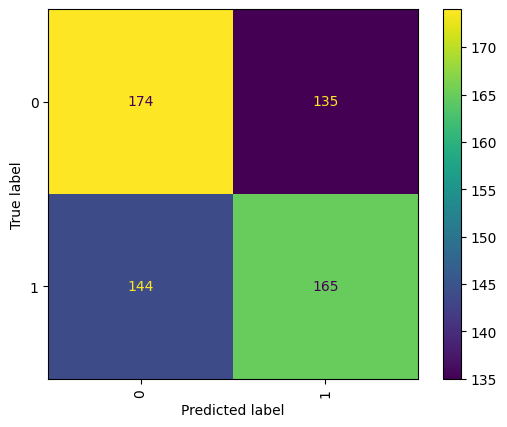
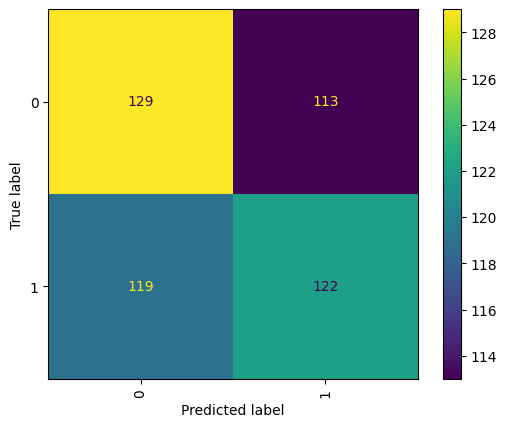
minor fix disease label

diff --git a/clean_questions.py b/clean_questions.py
@@ -87,27 +87,33 @@ def load_qscode(questionnaire='all', idp=None):
     df_out = pd.concat([df_qs, df_idp])
     return df_out
 
-def disease_label(df_subjects, visits=[2], grouping='simplified'):
+def disease_label(df, visits=[2], grouping='simplified'):
     """create disease label df"""
     from disease_type import extract_disease
     # different grouping
     if grouping == 'simplified':
         df_disease_group = pd.read_csv('./bbk_codes/disease_code_simplified.csv')
+    elif grouping == 'detailed':
+        df_disease_group = pd.read_csv('./bbk_codes/disease_code.csv')
     else:
         df_disease_group = pd.read_csv('./bbk_codes/disease_code_grouped.csv')
+    # drop duplicates to avoid merging issues
+    if df.index.name == 'eid':
+        df_dropd = df[~df.index.duplicated()]
+    elif 'eid' in df:
+        df_dropd = df[~df['eid'].duplicated()]
+    else:
+        raise ValueError('eid not present.')
     # iterate diseases
+    df_disease_label = []
     for i, r in df_disease_group.iterrows():
-        # print(i,r['disease'])
-        df_tmp = extract_disease(df_subjects, r['code'], visit=visits)
+        df_tmp = extract_disease(df_dropd, r['code'], visit=visits)
         df_tmp.replace(np.nan, 0.0, inplace=True)
         # rename column to disease
         df_tmp.rename(columns={df_tmp.columns[0]: r['disease']}, inplace=True)
         # merge
-        if i == 0:
-            df_disease_label = df_tmp
-        else:
-            df_disease_label = df_disease_label.join(df_tmp, on='eid')
-    return df_disease_label
+        df_disease_label.append(df_tmp)
+    return pd.concat(df_disease_label,axis=1)
 
 def exclude_multidisease(df, df_label):
     """exclude subjects with multiple diseases"""

diff --git a/disease_type.py b/disease_type.py
@@ -26,7 +26,8 @@ def extract_disease(df, disease_code, visit=None):
             # find matching disease
             disease_tag = []
             # if type(disease_code) is list:
-            if len(disease_code)> 10:
+            # if len(disease_code)> 10:
+            if isinstance(disease_code, str) and disease_code.startswith('['):
                 dcode_float = [float(i) for i in list(disease_code[1:-2].split(','))]
             else:
                 dcode_float = [float(disease_code)]
@@ -85,6 +86,18 @@ def group_disease_id(df, df_disease_group, visits=[0,1,2,3], save=True, save_nam
     if save:
         df_out.to_csv(f'../output/{save_name}.csv')
     return df_out
+
+def generate_clinical_vars():
+    """generate clinical variables from bbk codes"""
+    all_code = []
+    for f in os.listdir('./bbk_codes/'):
+        if not f.startswith('disease_code_'):
+            print(f)
+            df_tmp = pd.read_csv('./bbk_codes/'+f)
+            all_code.append(df_tmp.code.astype(int))
+    df_code = np.concatenate(all_code)
+    dfc = pd.DataFrame(df_code)
+    dfc.to_csv('../funpack_cfg/clinical_idp_variables.txt', header=None, index=None)
 
 # running
 if __name__=="__main__":

diff --git a/compare_control.py b/compare_control.py
@@ -45,7 +45,7 @@ def load_patient_matched(questionnaire='all', idp='all', question_visits=[2], im
     # load data
     df_disease = load_patients(visits=[2], single_disease=True)
     df_disease['label'] = 1
-    df_matched = pd.read_csv('../funpack_cfg/qsidp_subjs_control_allvisits_matched.tsv', sep='\t')
+    df_matched = pd.read_csv('../funpack_cfg/qsidp_subjs_control_visit2_matched.tsv', sep='\t')
     df_matched['label'] = 0
     dfs = pd.concat([df_disease, df_matched])
     print(f'Patients={df_disease.shape[0]}, controls={df_matched.shape[0]}')
@@ -68,8 +68,8 @@ def load_patient_matched(questionnaire='all', idp='all', question_visits=[2], im
 
 # running
 if __name__=="__main__":
-    # generate list of matched control
-    # df_control = pd.read_csv('../funpack_cfg/qsidp_subjs_control_allvisits_extended.tsv', sep='\t')
+    # # generate list of matched control
+    # df_control = pd.read_csv('../funpack_cfg/qsidp_subjs_control_visit2_extended.tsv', sep='\t')
     # df_disease = load_patients(visits=[2], single_disease=True)
     # match_ls = extract_control(df_control, df_disease, save_csv=True)
 

diff --git a/subject_select.py b/subject_select.py
@@ -1,0 +1,3 @@
+"""
+selecting subjects of interest
+"""
